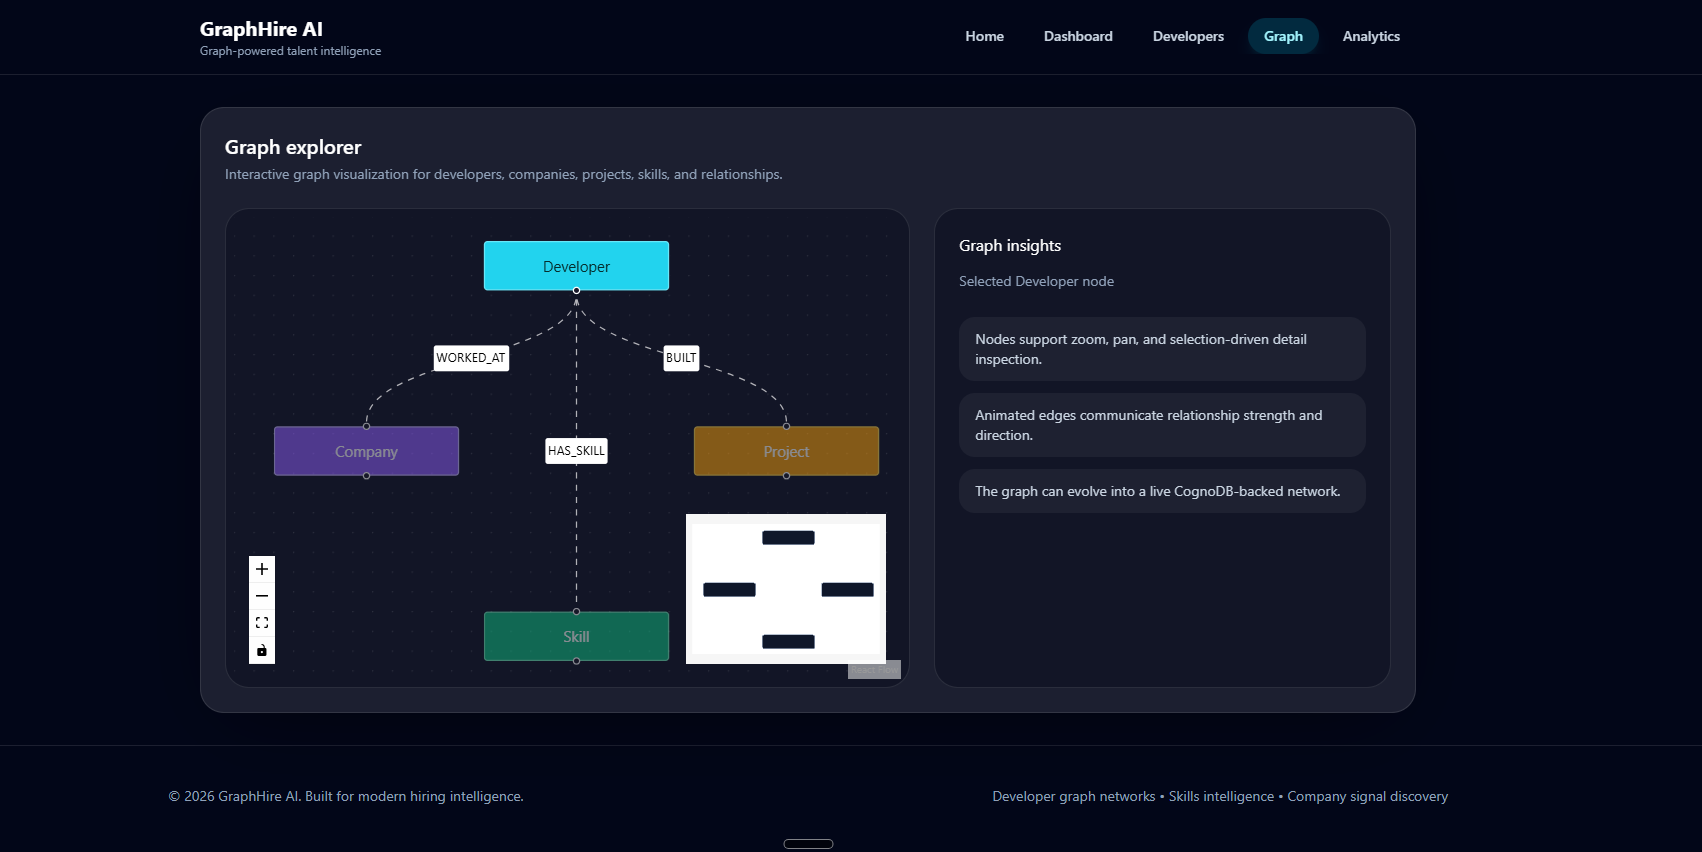
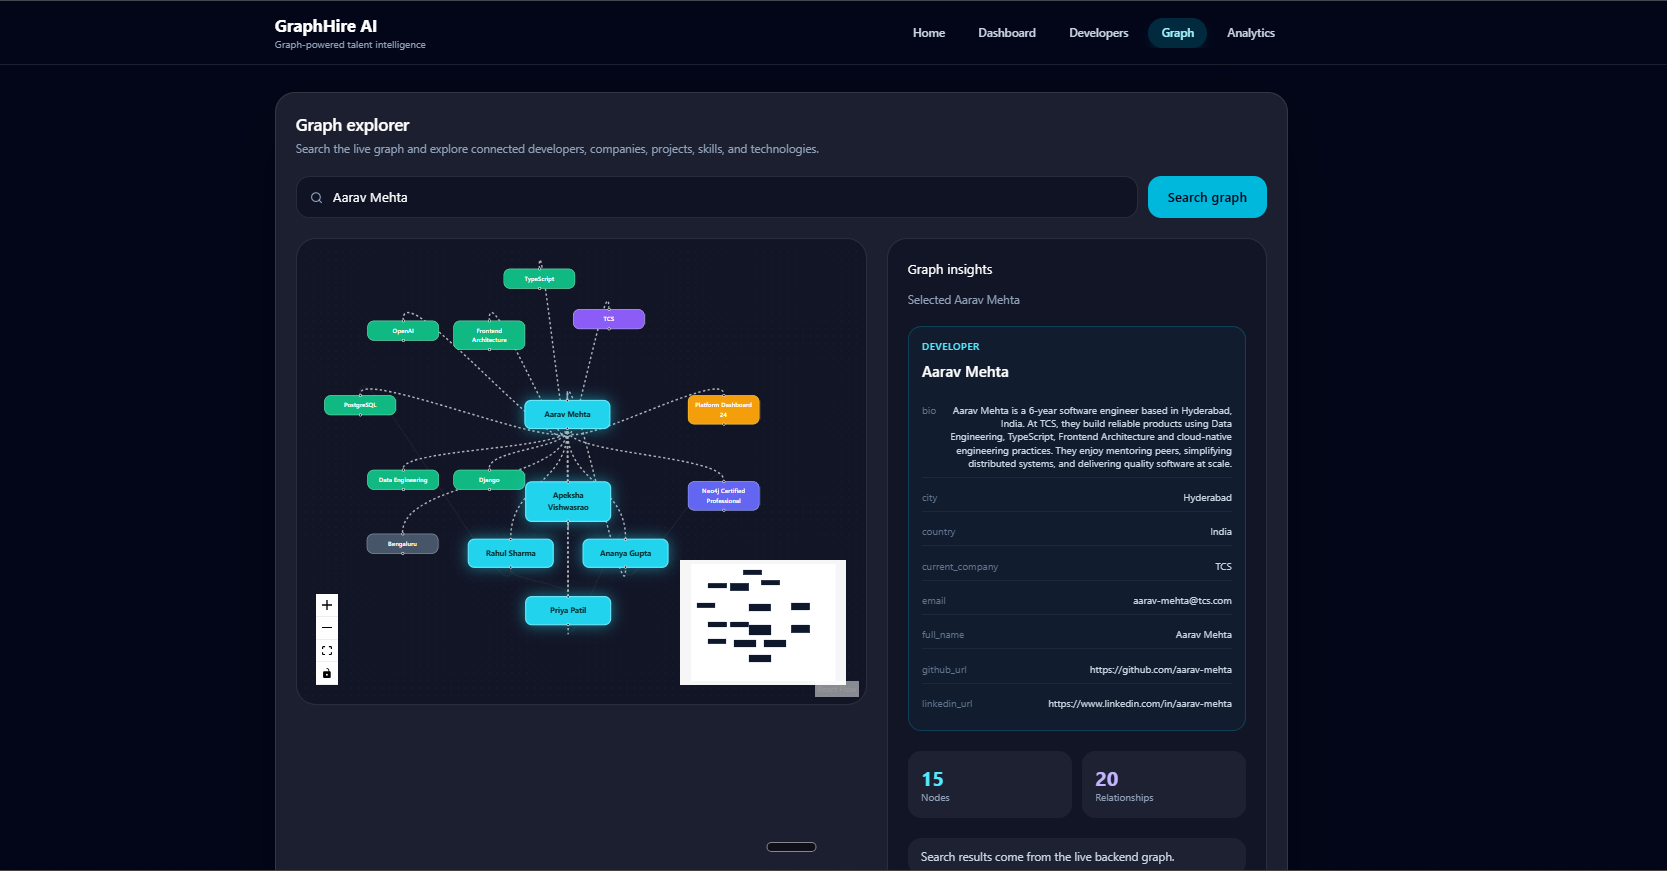
Fix remaining backend imports10

diff --git a/README.md b/README.md
@@ -365,18 +365,78 @@ The dashboard provides a high-level overview of the graph including developer, c
 
 ## Developer Directory
 
-Users can search and explore developers by name, email, or other available signals.
+Users can search and explore developers by name or email.
 
 Example information includes:
 
 * Developer name
 * Email
 * Experience
-* Location
-* Company
-* Skills
-* Technologies
 * Professional description
+* Available graph-related information
+
+The directory also provides filtering for senior developers.
+
+## Graph Explorer
+
+The Graph section provides an interactive visualization of relationships returned from the live graph database.
+
+Users can search for a:
+
+* Developer
+* Company
+* Skill
+* Technology
+* Project
+* Certification
+* Location
+
+The graph visualization is designed to remain readable even when a search result has many relationships.
+
+For developer-focused searches:
+
+```text
+                    Company
+                       │
+                       │ WORKED_AT
+                       │
+Skill ── HAS_SKILL ── Developer ── BUILT ── Project
+                       │
+                       │ USES
+                       │
+                  Technology
+```
+
+The searched developer is positioned as the central node, while related entities are arranged around it according to their graph type.
+
+The Graph Explorer also:
+
+* Limits the number of displayed nodes for readability.
+* Limits displayed relationships to prevent an overcrowded graph.
+* Uses different visual styles for different node types.
+* Provides zoom and pan controls through React Flow.
+* Provides a minimap for navigating the graph.
+* Displays the actual relationship type on graph edges.
+* Provides a loading state while graph data is being retrieved.
+* Provides an empty state when no matching graph data is found.
+* Allows users to click individual nodes for inspection.
+
+This approach keeps the graph useful for human exploration instead of displaying an unnecessarily large and difficult-to-read network.
+
+## Analytics
+
+The analytics section presents graph-related information through visual summaries and charts.
+
+## Recommendations
+
+The application provides developer recommendation functionality based on graph relationships and shared signals.
+
+## Search
+
+The search functionality allows the frontend to query developers and graph entities based on user input.
+
+
+
 
 ## Graph Explorer
 
@@ -664,7 +724,6 @@ The project follows the following security practices:
 * Production secrets are configured through hosting-platform environment variables.
 
 ---
-
 # 20. UI / UX
 
 GraphHire AI was designed as a modern SaaS-style application rather than a basic CRUD interface.
@@ -673,10 +732,14 @@ The interface includes:
 
 * Responsive navigation
 * Dashboard cards
-* Search functionality
+* Developer search
 * Developer directory
-* Graph visualization
-* Analytics
+* Developer filtering
+* Interactive graph visualization
+* Center-focused graph layout
+* Node-type visual differentiation
+* Graph zoom and pan controls
+* Graph minimap
 * Loading states
 * Empty states
 * Error states
@@ -684,7 +747,11 @@ The interface includes:
 * Dark/light theme support
 * Interactive transitions and animations
 
-The application is designed to be usable by a non-technical user who wants to explore developer and talent relationships.
+The Graph Explorer intentionally limits the visible graph to keep large relationship networks readable.
+
+Instead of displaying every connected relationship at once, the visualization focuses on the most relevant returned nodes and relationships and arranges them around the searched entity.
+
+This makes the graph easier to understand and demonstrates the underlying graph relationships without overwhelming the user with hundreds of nodes and edges.
 
 ---
 
